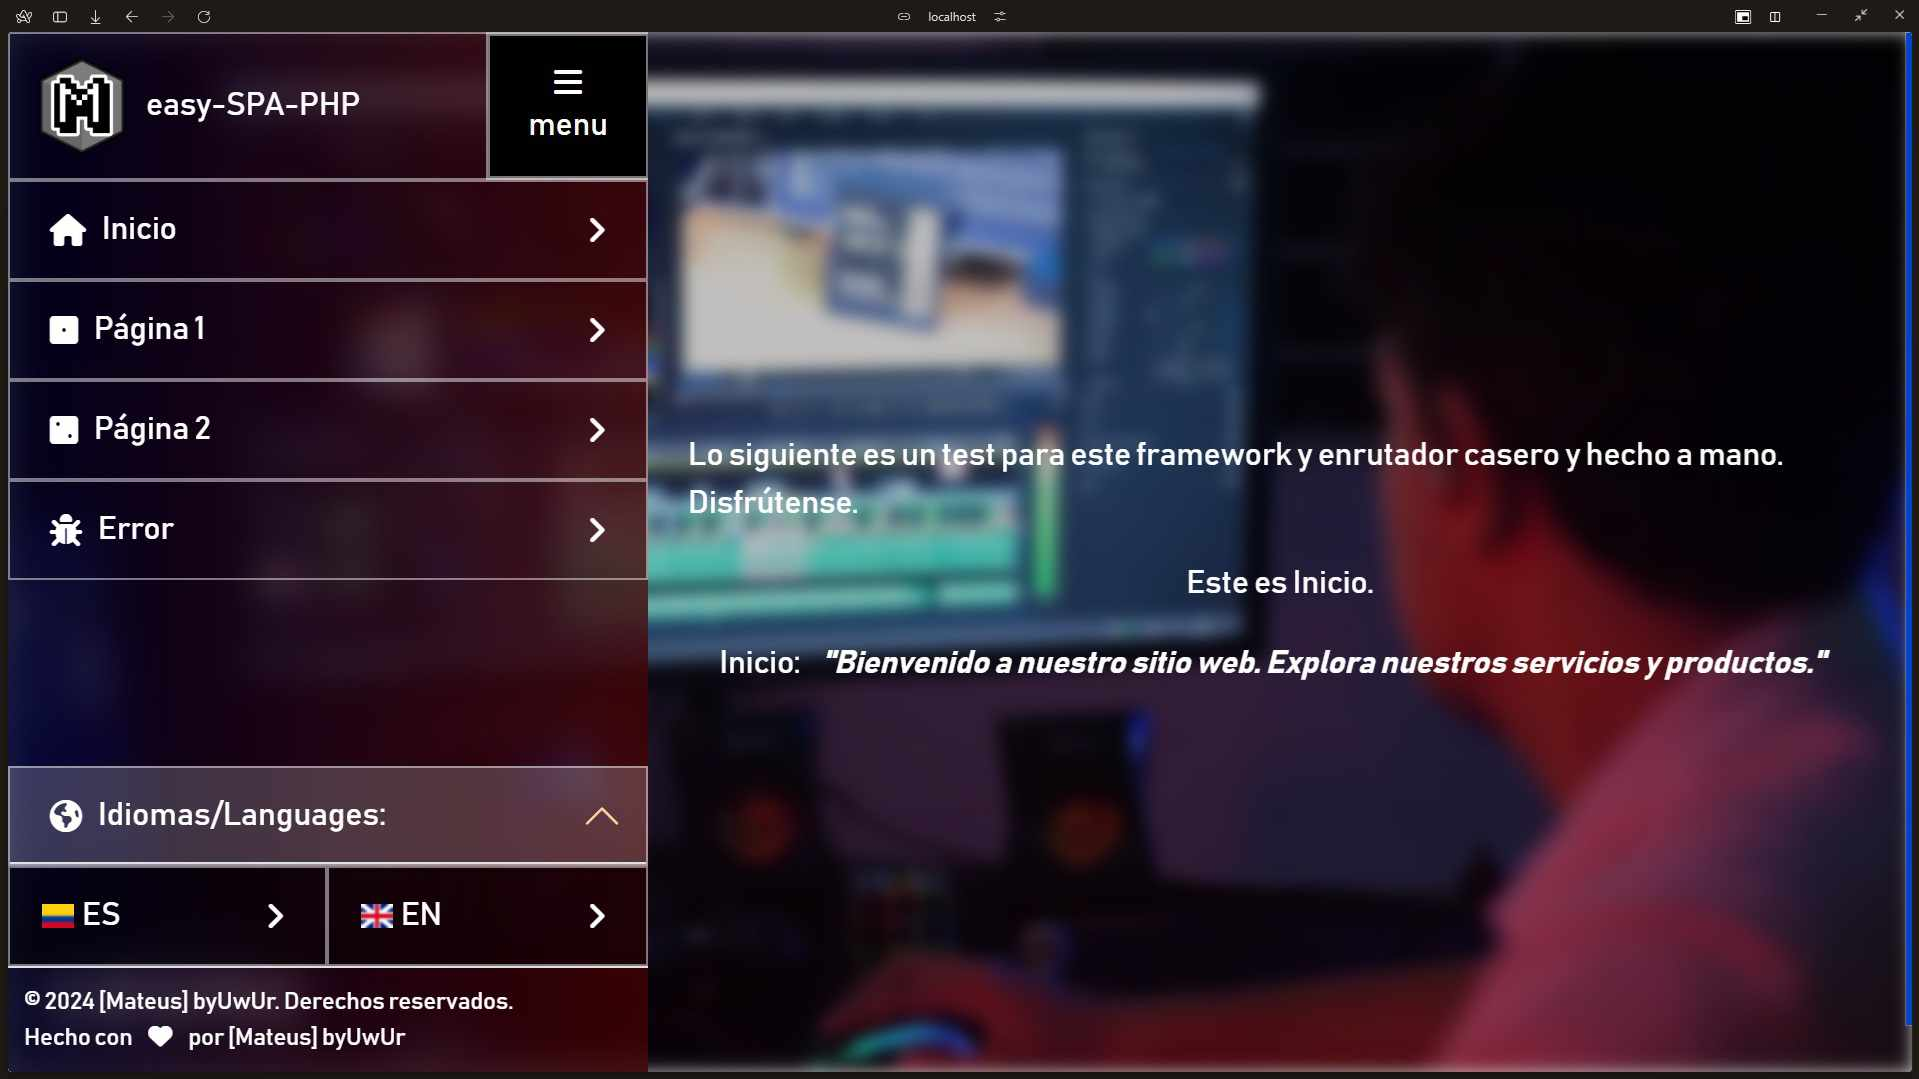
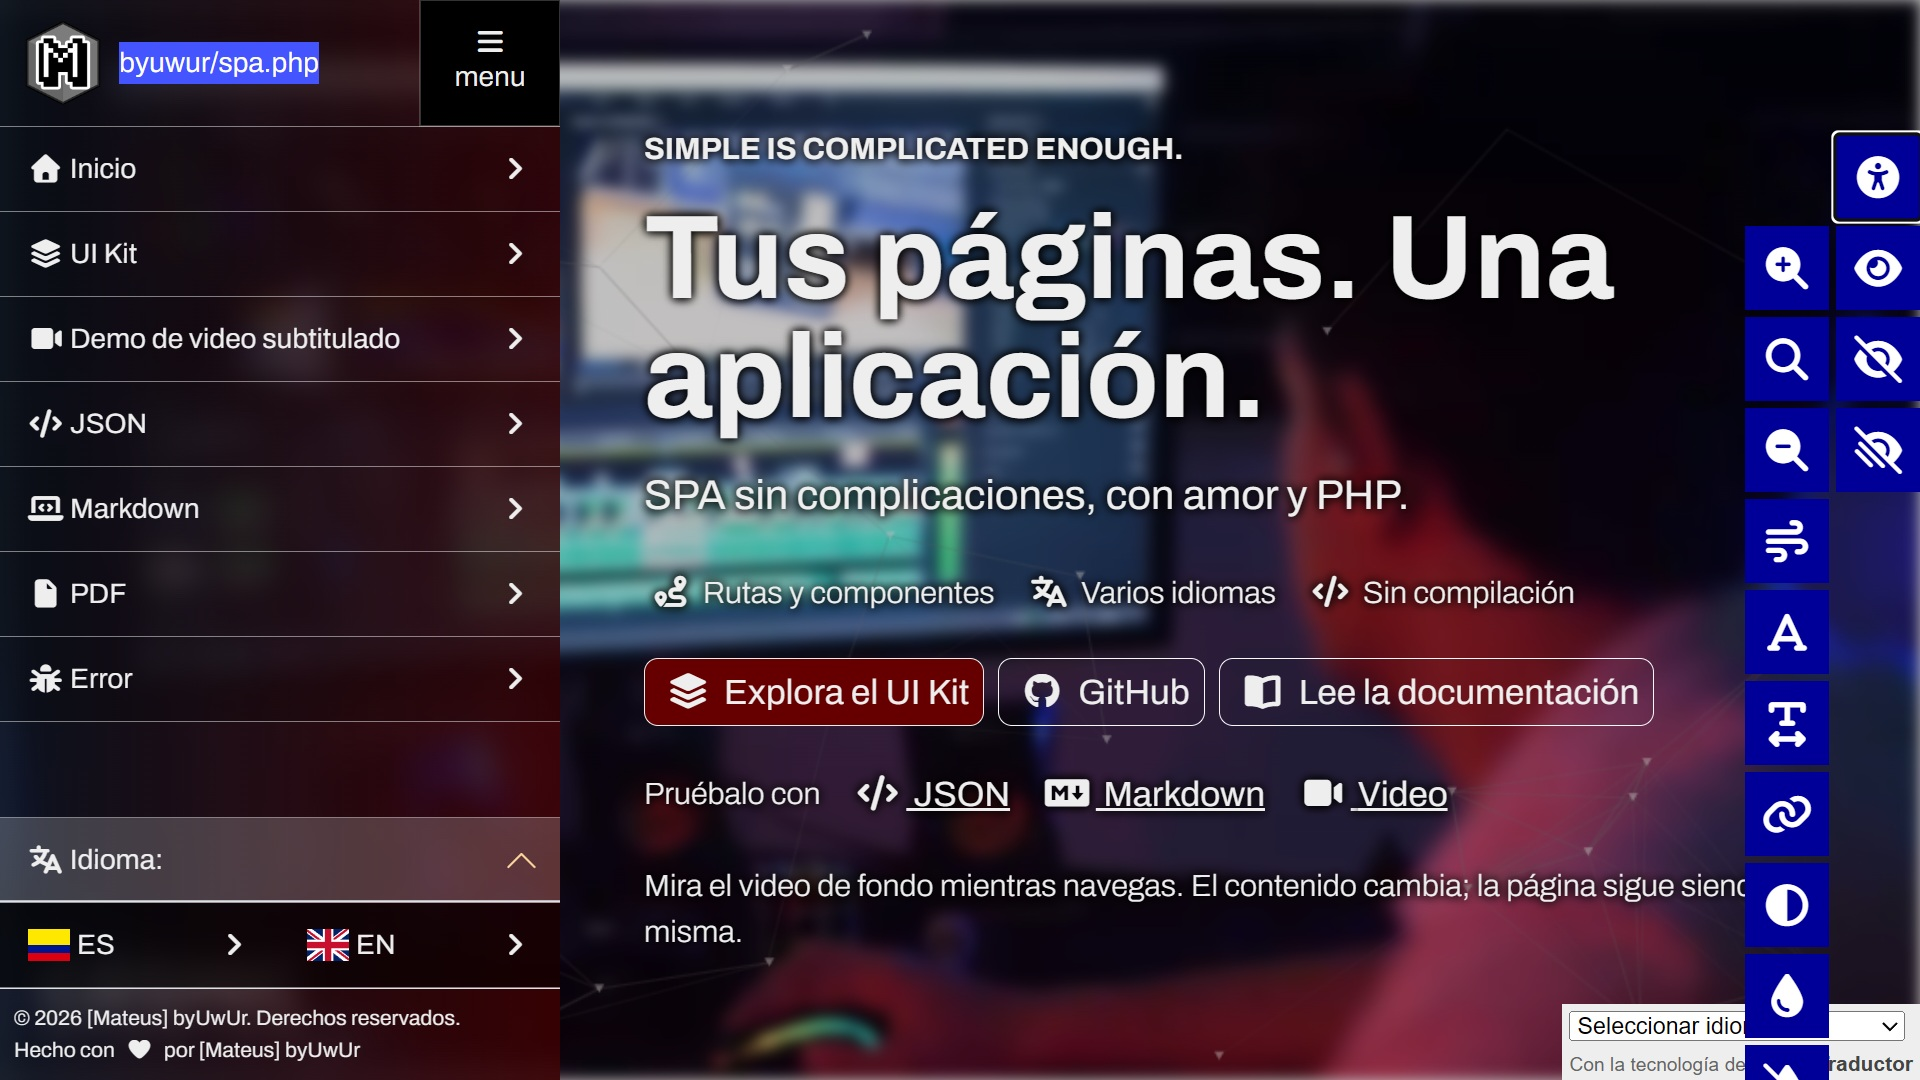
[Update] SPA image.

diff --git a/lang/ja.php b/lang/ja.php
@@ -44,7 +44,7 @@ $LANG = [
   "view.modern" => "標準ではないHTMLを読み込む",
   "view.modern.title" => "標準ではないHTMLを読み込む (v2)",
   "footer.html" =>
-    "&copy;" .
+  "&copy;" .
     date("Y") .
     /* HTML */ " Andrés Trujillo [Mateus] byUwUr<br>
     <!-- <a href='/{$ROUTE_V1}'>基本HTMLを読み込む</a> | -->
@@ -55,7 +55,7 @@ $LANG = [
   "action.close" => "閉じる",
   // --- 自己紹介とSNS ---
   "about.description" =>
-    /* HTML */ "現在、<a href='https://vehikl.com' target='_blank'><img class='inline-logo' src='{$HOME_PATH}/img/icons/vehikl.png'/>Vehikl </a>にてチームリードとして勤務しています。<br>
+  /* HTML */ "現在、<a href='https://vehikl.com' target='_blank'><img class='inline-logo' src='{$HOME_PATH}/img/icons/vehikl.png'/>Vehikl </a>にてチームリードとして勤務しています。<br>
     2018年からWebおよびモバイルソリューションの開発・デプロイ・運用サポートに携わってきた、バイリンガルのシステムエンジニアです。2014年からは映像制作の経験も積んできました。<br>
     シンプルであること自体が十分に難しい。複雑なワークフローをより扱いやすくする、堅牢で信頼性の高いツールを作ることを大切にしています。役に立つものを作ります。<br>
     フルスタック開発、クライアント向け導入支援、本番環境のサポート、技術デリバリーまで幅広く経験しており、React、React Native、PHP、MySQL、AWSを実務で扱ってきました。<br>
@@ -99,7 +99,7 @@ $LANG = [
       ],
     ],
     [
-      "title" => "Easy SPA PHP",
+      "title" => "SPA.php",
       "ent" => "byUwUr",
       "desc" => "ルーティング、AJAXナビゲーション、認証、デプロイメントをサポートする軽量PHPフレームワーク。重いフロントエンドツールチェーンは不要です。",
       "year" => "2024",

diff --git a/lang/es.php b/lang/es.php
@@ -44,7 +44,7 @@ $LANG = [
   "view.modern" => "cargar HTML no tan básico",
   "view.modern.title" => "cargar HTML no tan básico (v2)",
   "footer.html" =>
-    "&copy;" .
+  "&copy;" .
     date("Y") .
     /* HTML */ " Andrés Trujillo [Mateus] byUwUr<br>
     <!-- <a href='/{$ROUTE_V1}'>cargar HTML básico</a> | -->
@@ -55,7 +55,7 @@ $LANG = [
   "action.close" => "Cerrar",
   // --- Acerca de y redes ---
   "about.description" =>
-    /* HTML */ "Actualmente trabajo como Líder de equipo en <a href='https://vehikl.com' target='_blank'><img class='inline-logo' src='{$HOME_PATH}/img/icons/vehikl.png'/>Vehikl</a>.<br>
+  /* HTML */ "Actualmente trabajo como Líder de equipo en <a href='https://vehikl.com' target='_blank'><img class='inline-logo' src='{$HOME_PATH}/img/icons/vehikl.png'/>Vehikl</a>.<br>
     Ingeniero de Sistemas bilingüe con experiencia desarrollando, desplegando y dando soporte a soluciones web y móviles desde 2018, complementada con experiencia en producción audiovisual desde 2014.<br>
     Lo simple ya es suficientemente complicado: construyo herramientas sólidas y confiables que facilitan la operación de flujos de trabajo complejos. Creo cosas útiles.<br>
     Experiencia en desarrollo full-stack, implementación para clientes, soporte en producción y entrega técnica, con trabajo práctico en React, React Native, PHP, MySQL y AWS.<br>
@@ -99,7 +99,7 @@ $LANG = [
       ],
     ],
     [
-      "title" => "Easy SPA PHP",
+      "title" => "SPA.php",
       "ent" => "byUwUr",
       "desc" => "Framework PHP ligero para crear SPAs con enrutamiento, navegación AJAX, autenticación y soporte para despliegue sin necesidad de una pesada cadena de herramientas de frontend.",
       "year" => "2024",

diff --git a/lang/en.php b/lang/en.php
@@ -44,7 +44,7 @@ $LANG = [
   "view.modern" => "load not so basic HTML",
   "view.modern.title" => "load not so basic HTML (v2)",
   "footer.html" =>
-    "&copy;" .
+  "&copy;" .
     date("Y") .
     /* HTML */ " Andrés Trujillo [Mateus] byUwUr<br>
     <!-- <a href='/{$ROUTE_V1}'>load basic HTML</a> | -->
@@ -55,7 +55,7 @@ $LANG = [
   "action.close" => "Close",
   // --- About and social links ---
   "about.description" =>
-    /* HTML */ "Currently working as Team Lead at <a href='https://vehikl.com' target='_blank'><img class='inline-logo' src='{$HOME_PATH}/img/icons/vehikl.png'/>Vehikl</a>.<br>
+  /* HTML */ "Currently working as Team Lead at <a href='https://vehikl.com' target='_blank'><img class='inline-logo' src='{$HOME_PATH}/img/icons/vehikl.png'/>Vehikl</a>.<br>
     Bilingual Systems Engineer with professional experience developing, deploying and supporting web and mobile solutions since 2018, complemented by audiovisual production experience since 2014.<br>
     Simple is complicated enough: I build strong and reliable tools that make complex workflows easier to operate. I create useful things.<br>
     Experienced across full-stack development, client implementation, production support and technical delivery, with hands-on work in React, React Native, PHP, MySQL and AWS.<br>
@@ -99,7 +99,7 @@ $LANG = [
       ],
     ],
     [
-      "title" => "Easy SPA PHP",
+      "title" => "SPA.php",
       "ent" => "byUwUr",
       "desc" => "Lightweight PHP framework for building SPAs with routing, AJAX navigation, authentication and deployment support without a heavy frontend toolchain.",
       "year" => "2024",
